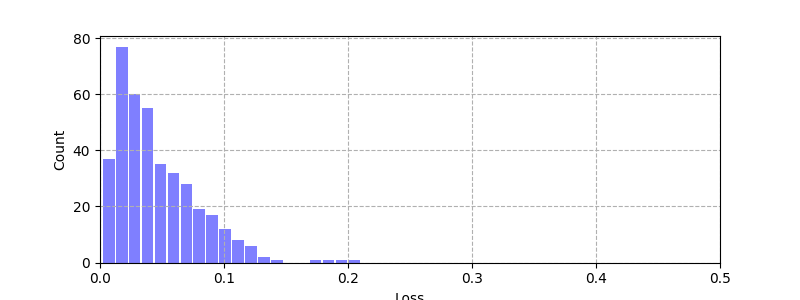
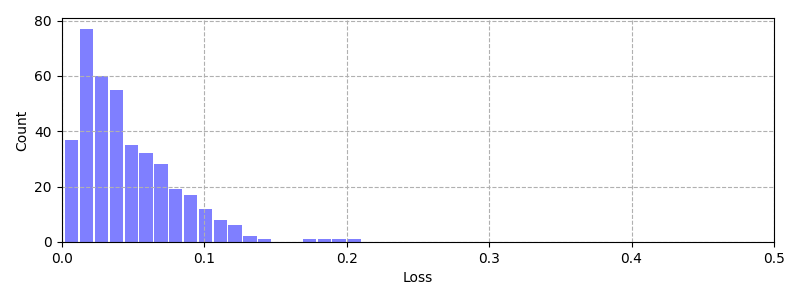
Changed to use tight_layout for figures.

diff --git a/README.md b/README.md
@@ -47,3 +47,9 @@ Using the trained model, losses were computed for the training set. A plot of th
 **Figure 3. The distribution of losses computed for the training set using the trained model.**
 
 Based on the distribution of losses on the training set, we decided to use 0.275 as the threshold for detecting anomalies. Next, the losses are calculated for the test set using the trained model to check if the output exceeds the threshold identified as abnormal. The distribution of losses for the test set is shown in Figure 4. The figure showing the distribution of losses for this model visualizes the occurrence of abnormal vibration, which is a predictor of bearing failures. The results confirm that the loss between input and output actually exceeds the defined threshold before bearing failure occurs.
+
+![The history of losses against the test set.](figure/test_loss.png)
+
+**Figure 4. The history of losses against the test set.**
+
+The approach of this analysis was to detect future bearing failures from abnormal vibrations before the actual physical failure occurs. In application, it is important to determine the optimal threshold for detecting anomalies in order to avoid detecting many false positives under normal operating conditions.
